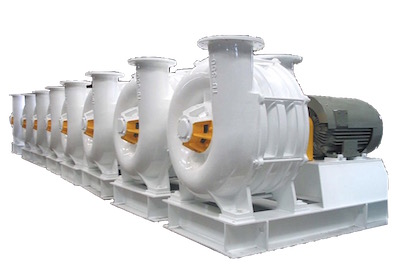
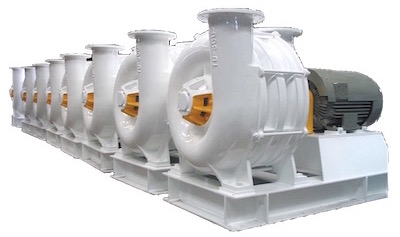
update article Gas Blowers

Changed region(s): [[0.0, 0.0295, 0.99, 0.827], [0.51, 0.8565, 0.9, 1.0], [0.42, 0.8565, 0.51, 0.9156]]

diff --git a/css/style.css b/css/style.css
@@ -400,7 +400,7 @@ pre {
 .content img.alignright{
     float: right;
     margin-left: 15px;
-    margin-bottom: 15px;
+    /*margin-bottom: 15px;*/
 }
 .content img.aligncenter{
     float: none;

diff --git a/pages/equipment/blower/ru.md b/pages/equipment/blower/ru.md
@@ -6,7 +6,7 @@ keywords: []
 lang: ru
 ---
 
-![Газодувки](./gas-01.jpg)
+![Газодувки](./gas-01.jpg){.width-33 .alignright}
 
 Высокое давление газа очень востребовано во многих отраслях
 промышленности. Газодувки могут эксплуатироваться в любых условиях, даже
@@ -17,11 +17,11 @@ lang: ru
 пневматической транспортировки, аэрации воды, создания разряженного
 воздуха или вакуума, сжигания воздуха.
 
-![Газодувки](./gas-02.jpg)
-
 ЗАО ПКФ "ПромХим-Сфера" предлагает оборудование для работы с воздухом и
 практически с любыми технологическими газами -- как с инертными, так с
 агрессивными.
+
+![Газодувки](./gas-02.jpg){.width-33 .alignright}
 
 Данное оборудование имеет существенные преимущества по сравнению с
 аналогами:

diff --git a/pages/equipment/blower/en.md b/pages/equipment/blower/en.md
@@ -6,7 +6,7 @@ keywords: []
 lang: en
 ---
 
-![Gas blower](./gas-01.jpg)
+![Gas blower](./gas-01.jpg){.width-33 .alignright}
 
 High pressure gas is highly demanded in different industrial branches.
 Gas blowers can be operated in any conditions, even in the most severe
@@ -16,13 +16,14 @@ coal mines, at cement and limestone plants, at waste water treatment
 units, for pneumatic transportation, for water aeration, at creation
 rarefied air or vacuum and air combustion.
 
-![Gas blower](gas-02.jpg)
-
 JSC PKF "PromHim-Sfera" supplies equipment for operations with air and
 almost all the process gases, both inert and aggressive.
 
+![Gas blower](gas-02.jpg){.width-33 .alignright}
+
 This equipment has significant advantages in comparison with its
 analogues:
+
 * High efficiency at any operation mode;
 * Wide range of standard air blowers;
 * Explosion safety and impact resistance;
